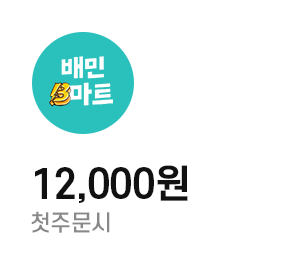
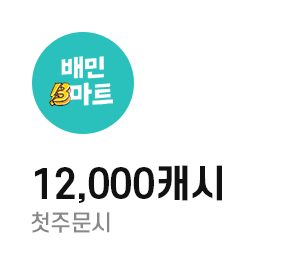
캐시적립 캐시풍선 변경

Changed region(s): [[0.5352, 0.6015, 0.7887, 0.782]]

diff --git a/assets/css/style.css b/assets/css/style.css
@@ -483,6 +483,17 @@ article.certify-box .certify {border-top:0;line-height:1;text-align: left;}
 .consum.stop {left:80% !important;}
 .consum em{display:inline-flex;align-items:center;justify-content:center;background: url(../images/icon/ico-coin.png) no-repeat center/contain;width:1.1rem;height:1.1rem;text-shadow: 0 0 3px rgba(0, 0, 0, 0.3);font-size: .65rem;padding-right: .1rem;font-size: 0;}
 .consum em.kon::after{content: 'K';}
+.coinback-wrp .consum{top:-2.75rem;width:40px;height:40px;border-radius: 50%;border:2px solid #0fbcdd;background:url(../images/icon/ico-kon-bubble.png) no-repeat center/auto 100% #fff;}
+.coinback-wrp .consum em{background: none;}
+.coinback-wrp .consum::after{
+    left:0.5rem;
+    bottom:-0.5rem;
+    width: 0;
+    height: 0;
+    border-style: solid;
+    border-width: 10px 10px 0 10px;
+    border-color: #0fbcdd transparent transparent transparent;
+}
 .consum em + .num{margin-left: .3rem;}
 .consum[style="left: 0%;"],.consum[style="left: 1%;"],
 .consum[style="left: 2%;"],.consum[style="left: 3%;"]{left:0 !important;margin-left:0;}
